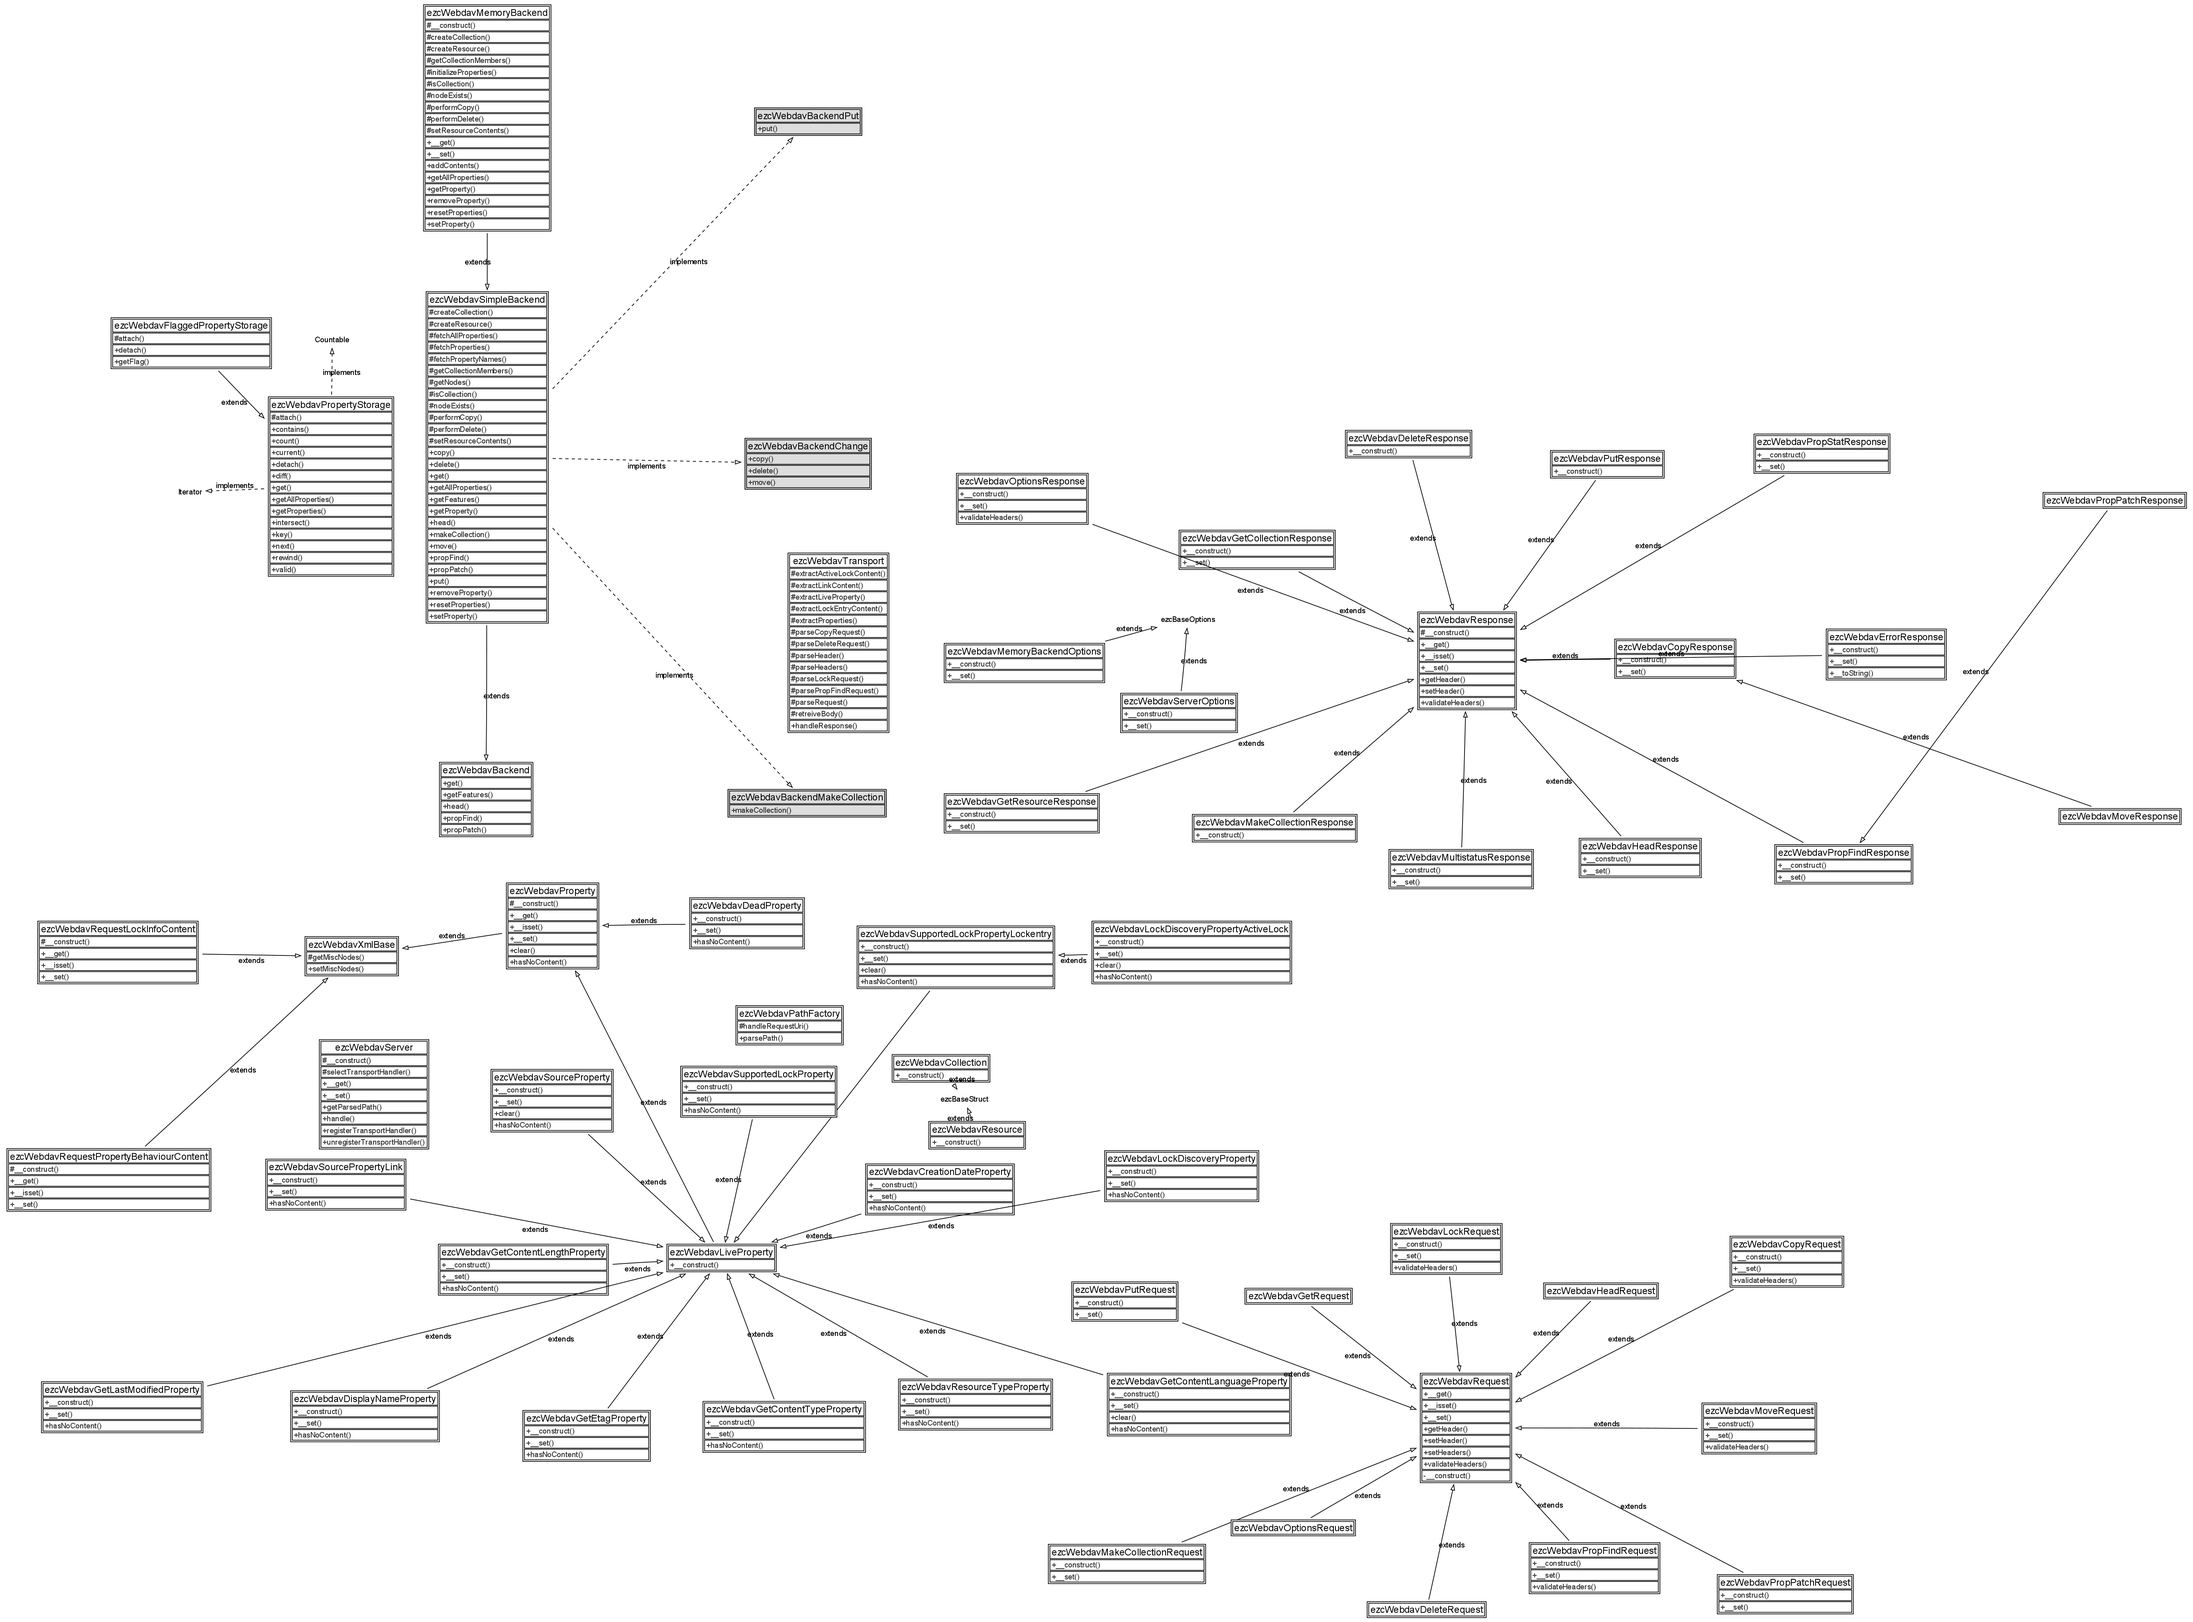
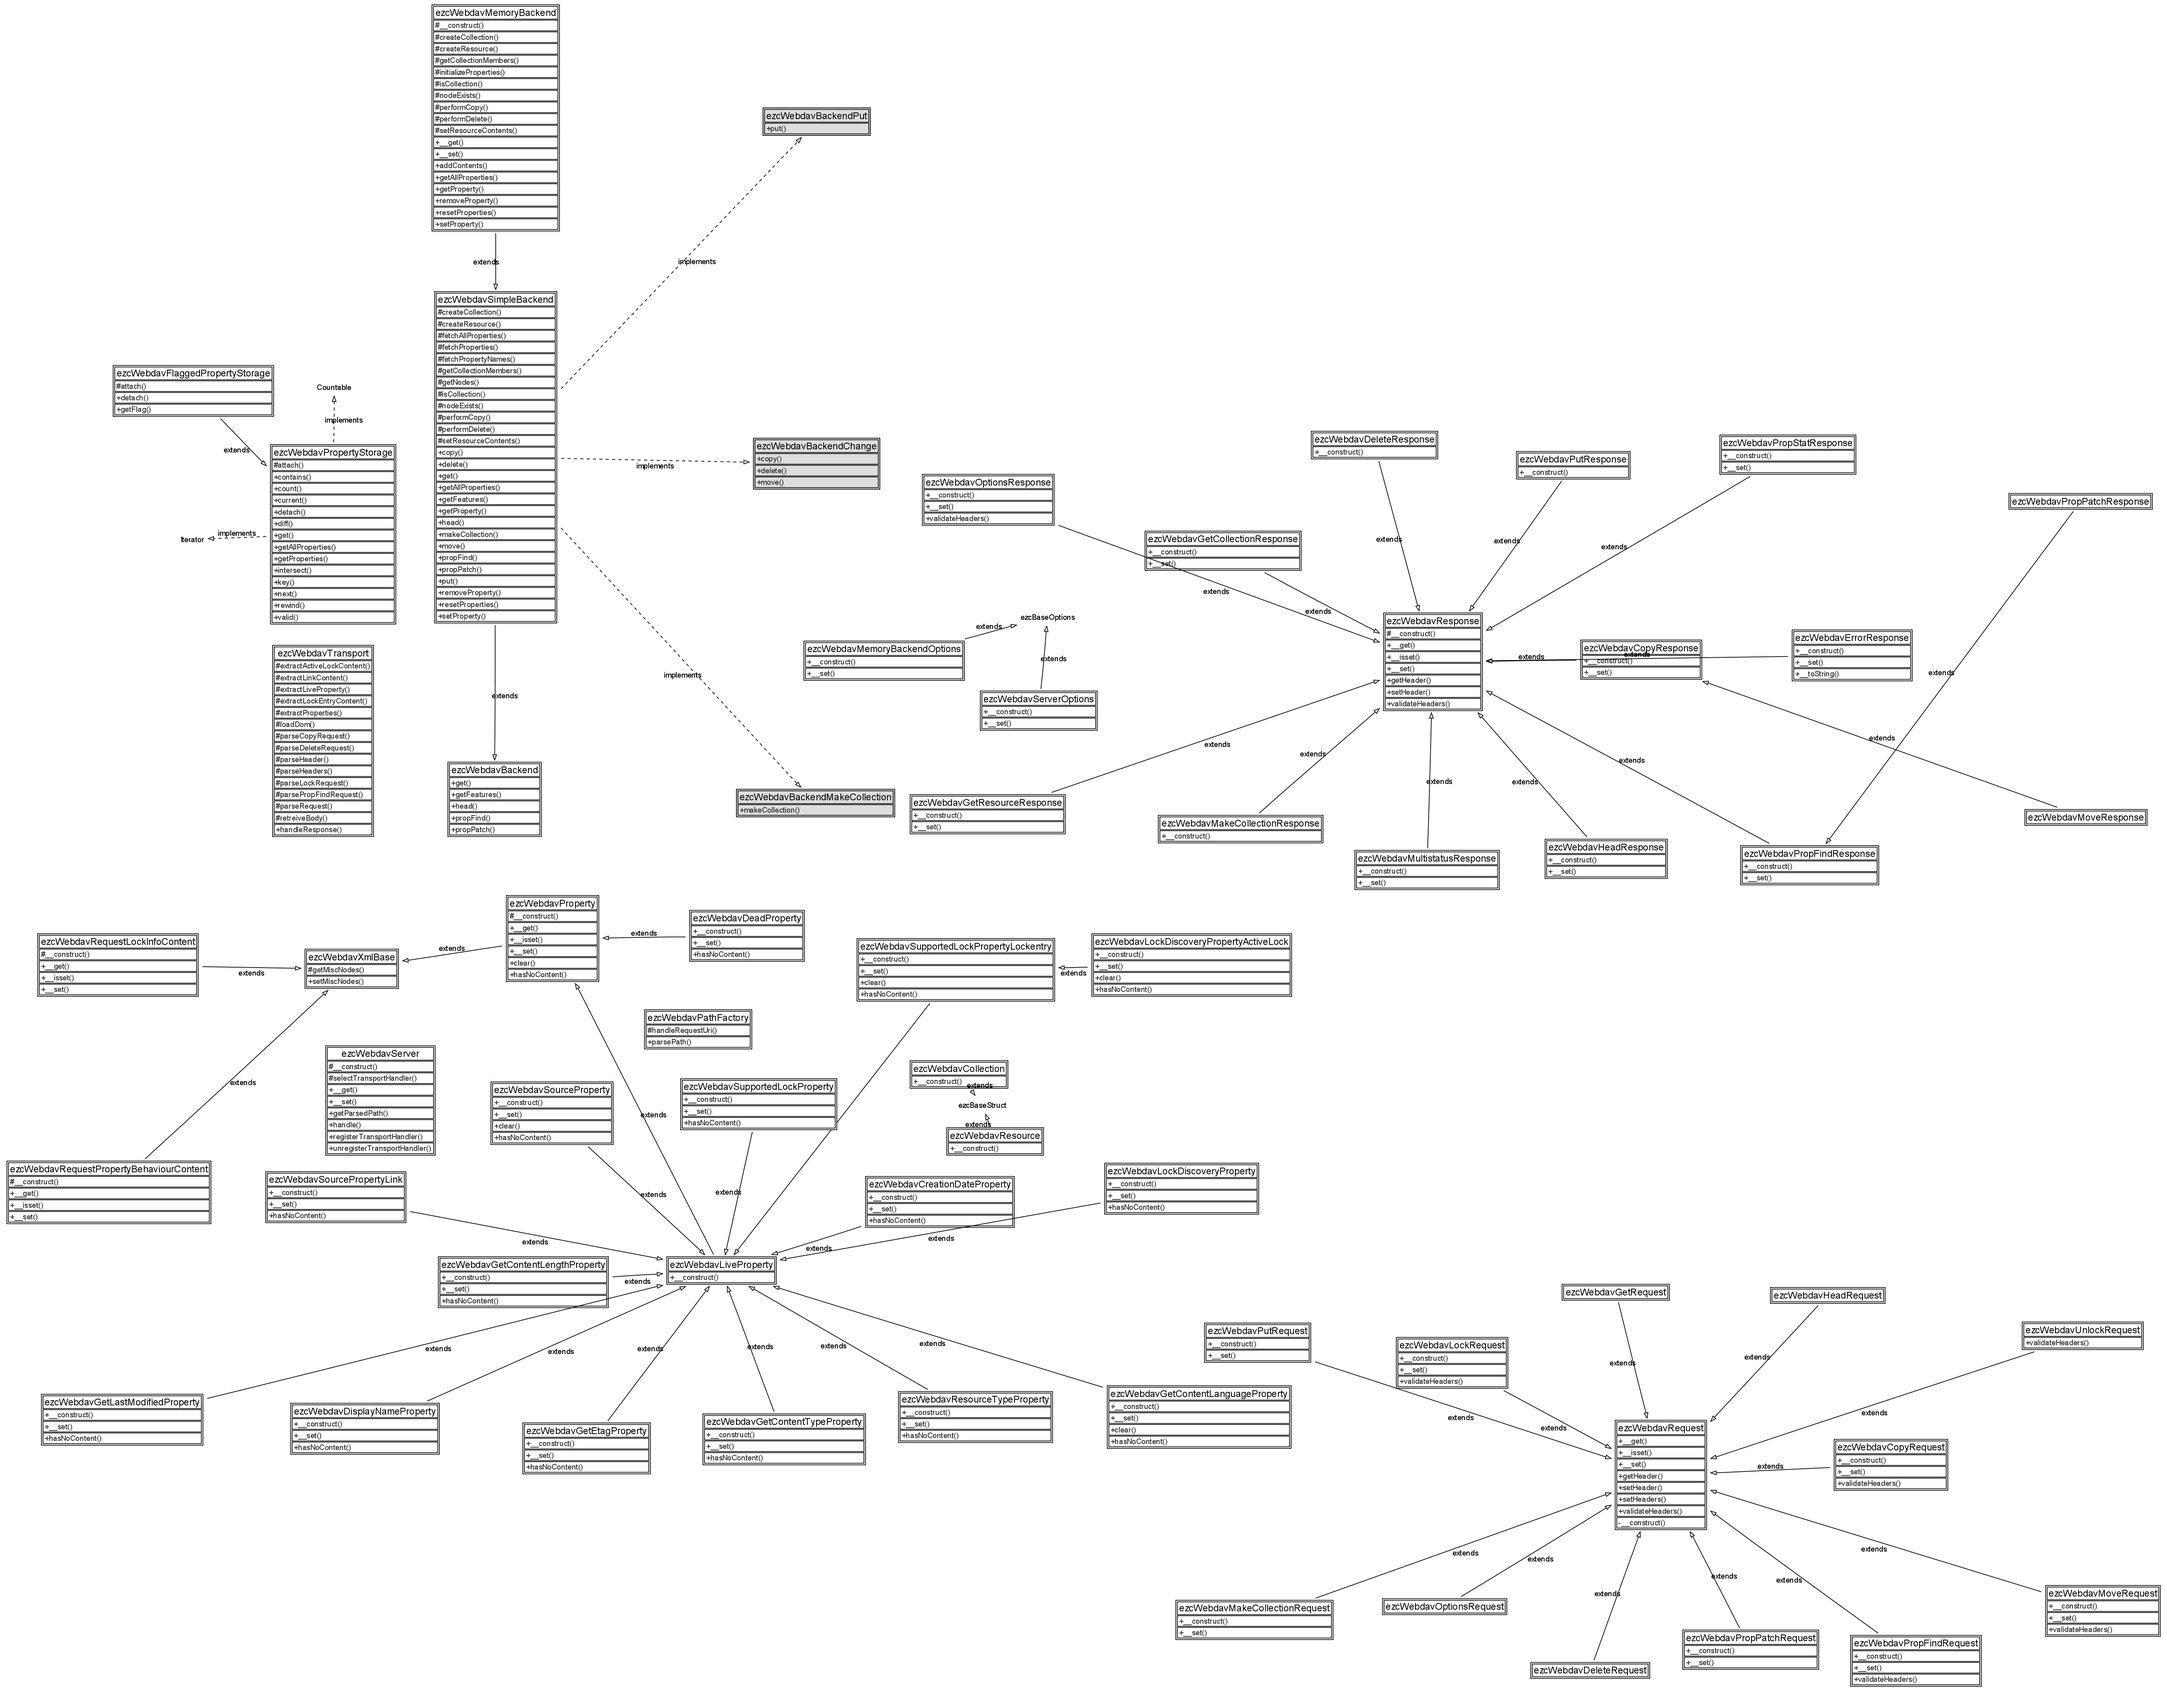
- Added UNLOCK request.
git-svn-id: https://svn.apache.org/repos/asf/incubator/zetacomponents/trunk@973514 13f79535-47bb-0310-9956-ffa450edef68

diff --git a/Webdav/src/request/unlock.php b/Webdav/src/request/unlock.php
@@ -1,0 +1,67 @@
+<?php
+/**
+ * File containing the ezcWebdavUnlockRequest class.
+ *
+ * @package Webdav
+ * @version //autogentag//
+ * @copyright Unlockright (C) 2005-2007 eZ systems as. All rights reserved.
+ * @license http://ez.no/licenses/new_bsd New BSD License
+ */
+/**
+ * Request class generated by a LOCK request.
+ * This request represents the WebDAV LOCK action.
+ *
+ * An object of this class may have 1 of 3 possible properties used. If none is
+ * used, it must be asumed that the {@link $allProp} property is set to true.
+ *
+ * The {@link $allProp} property indicates, that a list of all available
+ * properties is required, including the value of each property.
+ * In contrast, the {@link $propName} property indicates, that only a list of
+ * property names, without property values, is requested. The {@link $prop}
+ * property is of type array (or null, if not set) and can contain a list of
+ * property names, which are requested to be returned, including their values.
+ *
+ * Optional headers for this request are:
+ * - Depth (default: ezcWebdavRequest::DEPTH_INFINITY)
+ * 
+ * @package Webdav
+ * @version //autogen//
+ * @copyright Unlockright (C) 2005-2007 eZ systems as. All rights reserved.
+ * @author  
+ * @license http://ez.no/licenses/new_bsd New BSD License
+ *
+ * @property bool $allProp
+ *           Representing the <allprop /> XML element.
+ * @property bool $propName 
+ *           Representing the <propname /> XML element. 
+ * @property array(string) $prop
+ *           Representing the <prop /> XML element. Can contain a list of
+ *           property names.
+ */
+class ezcWebdavUnlockRequest extends ezcWebdavRequest
+{
+    /**
+     * Validates the headers set in this request.
+     * This method validates that all required headers are available and that
+     * all feasible headers for this request have valid values.
+     *
+     * @return void
+     *
+     * @throws ezcWebdavMissingHeaderException
+     *         if a required header is missing.
+     * @throws ezcWebdavInvalidHeaderException
+     *         if a header is present, but its content does not validate.
+     */
+    public function validateHeaders()
+    {
+        if ( isset( $this->headers['Lock-Token'] ) === false )
+        {
+            throw new ezcWebdavMissingHeaderException( 'Lock-Token' );
+        }
+
+        // Validate common HTTP/WebDAV headers
+        parent::validateHeaders();
+    }
+}
+
+?>

diff --git a/Webdav/tests/request_unlock_test.php b/Webdav/tests/request_unlock_test.php
@@ -1,0 +1,67 @@
+<?php
+/**
+ * File containing the ezcWebdavUnlockRequestTest class.
+ *
+ * @package Webdav
+ * @subpackage Tests
+ * @version //autogentag//
+ * @copyright Unlockright (C) 2005-2007 eZ systems as. All rights reserved.
+ * @license http://ez.no/licenses/new_bsd New BSD License
+ */
+
+/**
+ * Reqiuire base test
+ */
+require_once 'request_test.php';
+
+/**
+ * Test case for the ezcWebdavUnlockRequest class.
+ * 
+ * @package Webdav
+ * @subpackage Tests
+ * @version //autogentag//
+ * @copyright Unlockright (C) 2005-2007 eZ systems as. All rights reserved.
+ * @license http://ez.no/licenses/new_bsd New BSD License
+ */
+class ezcWebdavUnlockRequestTest extends ezcWebdavRequestTestCase
+{
+    public static function suite()
+    {
+		return new PHPUnit_Framework_TestSuite( __CLASS__ );
+    }
+
+    protected function setUp()
+    {
+        $this->className = 'ezcWebdavUnlockRequest';
+        $this->constructorArguments = array(
+            '/foo', '/bar'
+        );
+        $this->defaultValues = array(
+        );
+        $this->workingValues = array(
+        );
+        $this->failingValues = array(
+        );
+    }
+
+    public function testValidateHeadersSuccess()
+    {
+        $req = new ezcWebdavUnlockRequest( '/foo', '/bar' );
+        $req->setHeader( 'Lock-Token', '<opaquelocktoken:a515cfa4-5da4-22e1-f5b5-00a0451e6bf7>' );
+        $req->validateHeaders();
+    }
+
+    public function testValidateHeadersFailure()
+    {
+        $req = new ezcWebdavUnlockRequest( '/foo', '/bar' );
+        
+        try
+        {
+            $req->validateHeaders();
+            $this->fail( 'Exception not thrown on missing Unlock-Token header.' );
+        }
+        catch ( ezcWebdavMissingHeaderException $e ) {}
+    }
+}
+
+?>

diff --git a/Webdav/tests/suite.php b/Webdav/tests/suite.php
@@ -47,6 +47,7 @@ require_once 'request_move_test.php';
 require_once 'request_propfind_test.php';
 require_once 'request_proppatch_test.php';
 require_once 'request_lock_test.php';
+require_once 'request_unlock_test.php';
 
 require_once 'request_content_property_behaviour_test.php';
 
@@ -104,6 +105,7 @@ class ezcWebdavSuite extends PHPUnit_Framework_TestSuite
         $this->addTest( ezcWebdavMoveRequestTest::suite() );
         $this->addTest( ezcWebdavPropFindRequestTest::suite() );
         $this->addTest( ezcWebdavPropPatchRequestTest::suite() );
+        $this->addTest( ezcWebdavUnlockRequestTest::suite() );
         $this->addTest( ezcWebdavRequestPropertyBehaviourContentTest::suite() );
         
         $this->addTest( ezcWebdavErrorResonseTest::suite() );

diff --git a/Webdav/src/webdav_autoload.php b/Webdav/src/webdav_autoload.php
@@ -82,5 +82,6 @@ return array(
     'ezcWebdavSourcePropertyLink'              => 'Webdav/properties/source_link.php',
     'ezcWebdavSupportedLockProperty'           => 'Webdav/properties/supportedlock.php',
     'ezcWebdavTransport'                       => 'Webdav/transport.php',
+    'ezcWebdavUnlockRequest'                   => 'Webdav/request/unlock.php',
 );
 ?>
